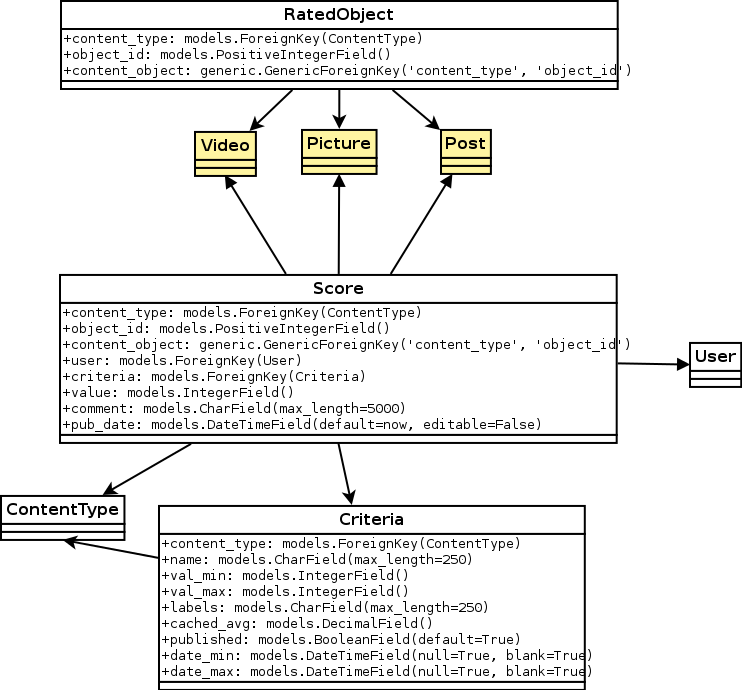
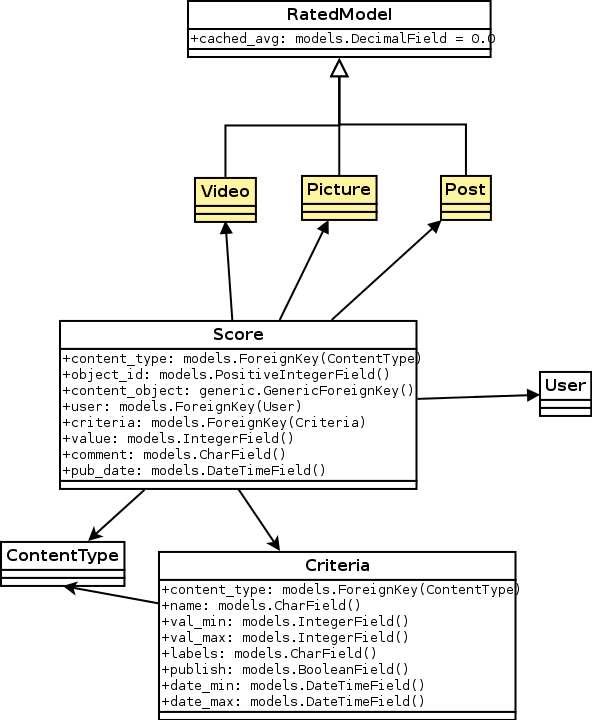
misc cleanups, documentation

Changed region(s): [[0.0, 0.0, 1.0, 1.0], [0.6689, 0.3348, 0.6993, 0.3652], [0.6385, 0.3652, 0.6689, 0.3957]]

diff --git a/ratings/models.py b/ratings/models.py
@@ -81,26 +81,18 @@ class RatedModel(models.Model):
         users = {}
         for score in scores:
             username = score.user.username
+            by_crit = {
+                    'name': score.criteria.name,
+                    'value': score.value,
+                    'comment': score.comment
+                    }
             if username not in users:
-                by_crit = [
-                        {
-                        'name': score.criteria.name,
-                        'value': score.value,
-                        'comment': score.comment
-                        }
-                    ]
                 users[username] = {
                         'pub_date': score.pub_date,
-                        'by_crit' : by_crit
+                        'by_crit' : [by_crit]
                         }
             else:
-                users[username]['by_crit'].append(
-                        {
-                            'name': score.criteria.name,
-                            'value': score.value,
-                            'comment': score.comment
-                        }
-                    )
+                users[username]['by_crit'].append(by_crit)
 
         for k, v in users.items():
             numbers = [crit['value'] for crit in v['by_crit']]
@@ -118,18 +110,6 @@ class RatedModel(models.Model):
         result.sort(key=itemgetter('pub_date'), reverse=True)
         return result
 
-    def std_dev(self):
-        """Returns average difference of Scores from the mean."""
-        # TODO: Make this User-based rather than Score-based
-        scores = self.get_scores()
-
-        avg_score = self.avg_score()
-        if not scores:
-            return 0
-        numerator = [pow((s - avg_score), 2) for s in scores]
-        numerator = sum(numerator)
-        return sqrt(numerator / len(scores))
-
 
 class CriteriaManager(models.Manager):
     use_for_related_fields = True
@@ -145,7 +125,7 @@ class Criteria(models.Model):
     content_type = models.ForeignKey(ContentType)
     name = models.CharField(max_length=250)
 
-    #folder = ForeignKey # relacja self np Null raczej M2M
+    # TODO: question folder using a "self" relation or M2M
     publish = models.BooleanField(default=True)
     date_min = models.DateTimeField(null=True, blank=True)
     date_max = models.DateTimeField(null=True, blank=True)
@@ -172,9 +152,11 @@ class Choice(models.Model):
         unique_together = ('value', 'label')
 
 
-def get_choices():
+def get_choices(please_select=None):
     choices = Choice.objects.all()
     choices = ((choice.value, choice.label) for choice in choices)
+    if please_select is not None:
+        choices = tuple([(666, please_select)] + list(choices))
     return choices
 
 
@@ -190,7 +172,6 @@ class Score(models.Model):
 
     user = models.ForeignKey(User, editable=False)
     criteria = models.ForeignKey(Criteria, editable=False)
-    # TODO: values in Score instead of Criteria ? Hmm.
     value = models.IntegerField()
     comment = models.CharField(blank=True, max_length=5000)
     pub_date = models.DateTimeField(default=now, editable=False) 
@@ -207,7 +188,7 @@ class Score(models.Model):
 
 
 class ScoreForm(forms.ModelForm):
-    value = forms.ChoiceField(choices=get_choices())
+    value = forms.ChoiceField(choices=get_choices(please_select='Please select:'))
     def __init__(self, *args, **kwargs):
         self.user = kwargs.pop('user', None)
         self.criteria = kwargs.pop('criteria', None)
@@ -224,14 +205,15 @@ class ScoreForm(forms.ModelForm):
     def clean(self):
         cleaned_data = super(ScoreForm, self).clean()
         value = cleaned_data['value']
-        if int(value) not in get_choice_values():
-            rng = ', '.join([str(val) for val in get_choice_values()])
-            raise ValidationError("Values should be in range {}".format(rng))
+        rng = [unicode(v) for v in get_choice_values()]
         if Score.objects.filter(user=self.user,
                                 object_id=self.obj_id,
                                 content_type=self.criteria.content_type,
                                 criteria=self.criteria).exists():
-            raise ValidationError("Only one Score per User per object!")
+            raise ValidationError("Only one score per user allowed.")
+        if value not in rng:
+            rng = ', '.join(rng)
+            raise ValidationError("Values should be in range {}".format(rng))
         return cleaned_data
 
     class Meta:

diff --git a/ratings/views.py b/ratings/views.py
@@ -13,8 +13,8 @@ from django.core.exceptions import ValidationError
 def rate(request, ct_id, obj_id):
     ct = ContentType.objects.get_for_id(ct_id)
     crits = {crit.name: crit for crit in ct.criteria_set.all()}
+    sforms = []
     if request.method == "POST":
-        sforms = []
         for critname in crits:
             sforms.append(ScoreForm(
                 request.POST,
